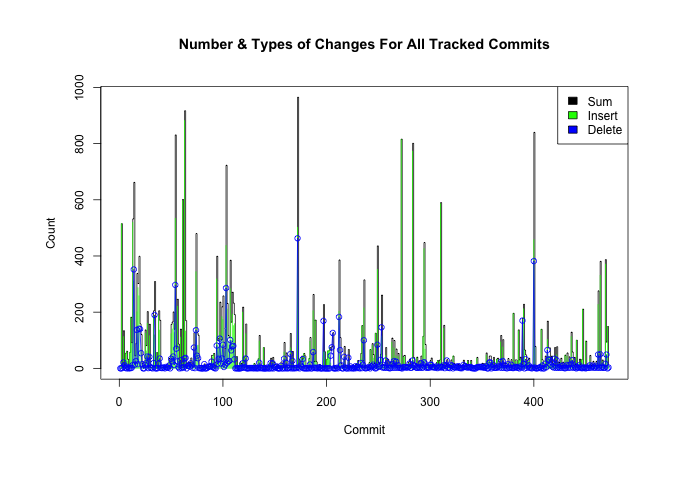
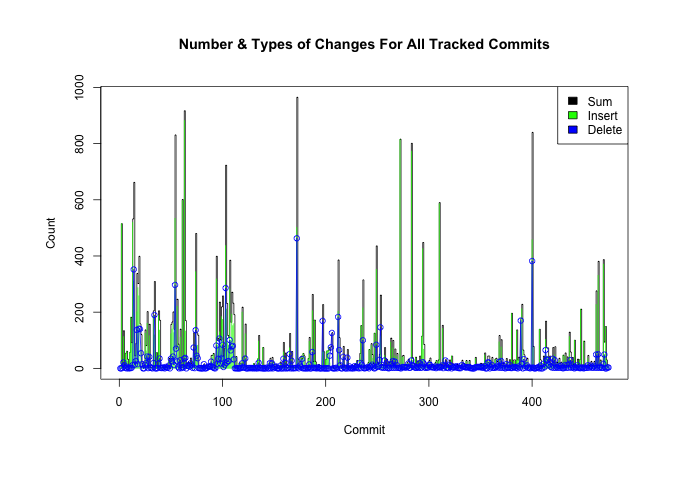
COMMIT #208

diff --git a/README.md b/README.md
@@ -17,8 +17,8 @@ ProjectName::BranchName.data
 
 Project Name | Last Updated | # Commits | # Branches | Branches Merged
 :---|:---:|:---:|:---:|:---:
-[learn_some_C.Plus.Plus](https://github.com/pierremigeon/learn_some_C.Plus.Plus)                    |  2023-06-14  |  42   |  1  |  100%  (1/1)
-[commit_tracker](https://github.com/pierremigeon/commit_tracker)                                    |  2023-06-14  |  206  |  1  |  100%  (1/1)
+[learn_some_C.Plus.Plus](https://github.com/pierremigeon/learn_some_C.Plus.Plus)                    |  2023-06-14  |  43   |  1  |  100%  (1/1)
+[commit_tracker](https://github.com/pierremigeon/commit_tracker)                                    |  2023-06-14  |  207  |  1  |  100%  (1/1)
 [libft](https://github.com/pierremigeon/libft)                                                      |  2023-06-05  |  30   |  2  |  50%   (1/2)
 [ft_printf](https://github.com/pierremigeon/ft_printf)                                              |  2023-06-01  |  37   |  2  |  100%  (2/2)
 [minishell](https://github.com/pierremigeon/minishell)                                              |  2023-05-20  |  78   |  8  |  88%   (7/8)
